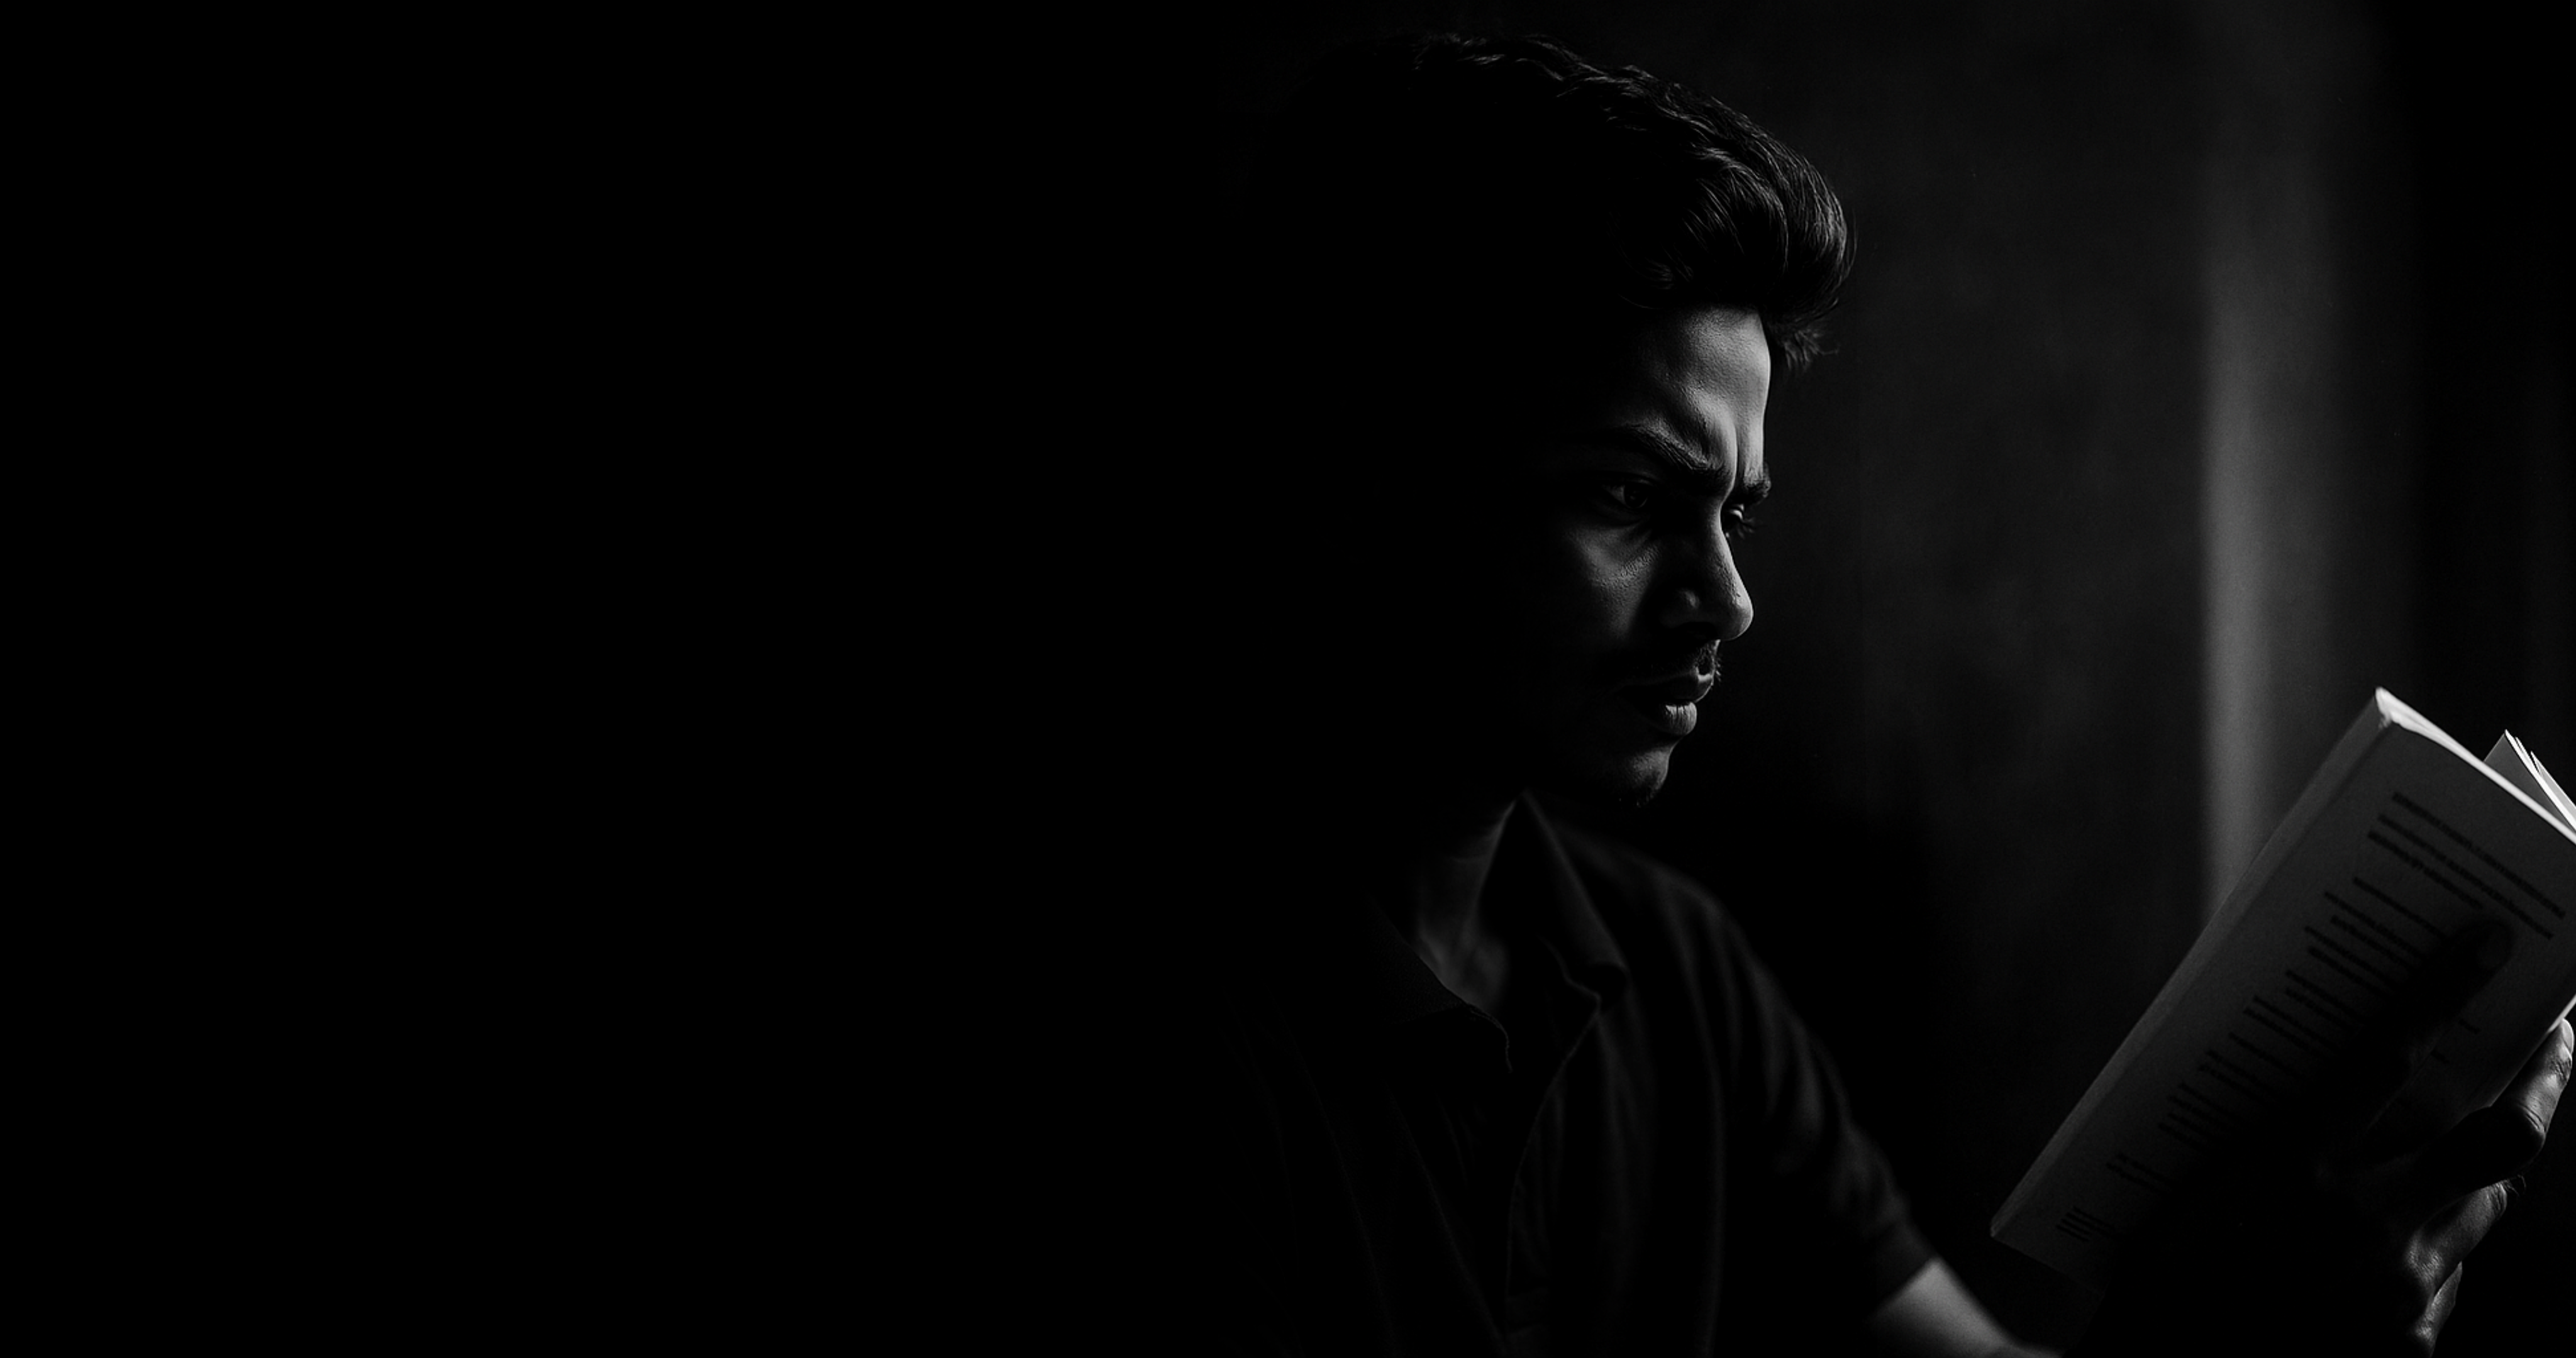
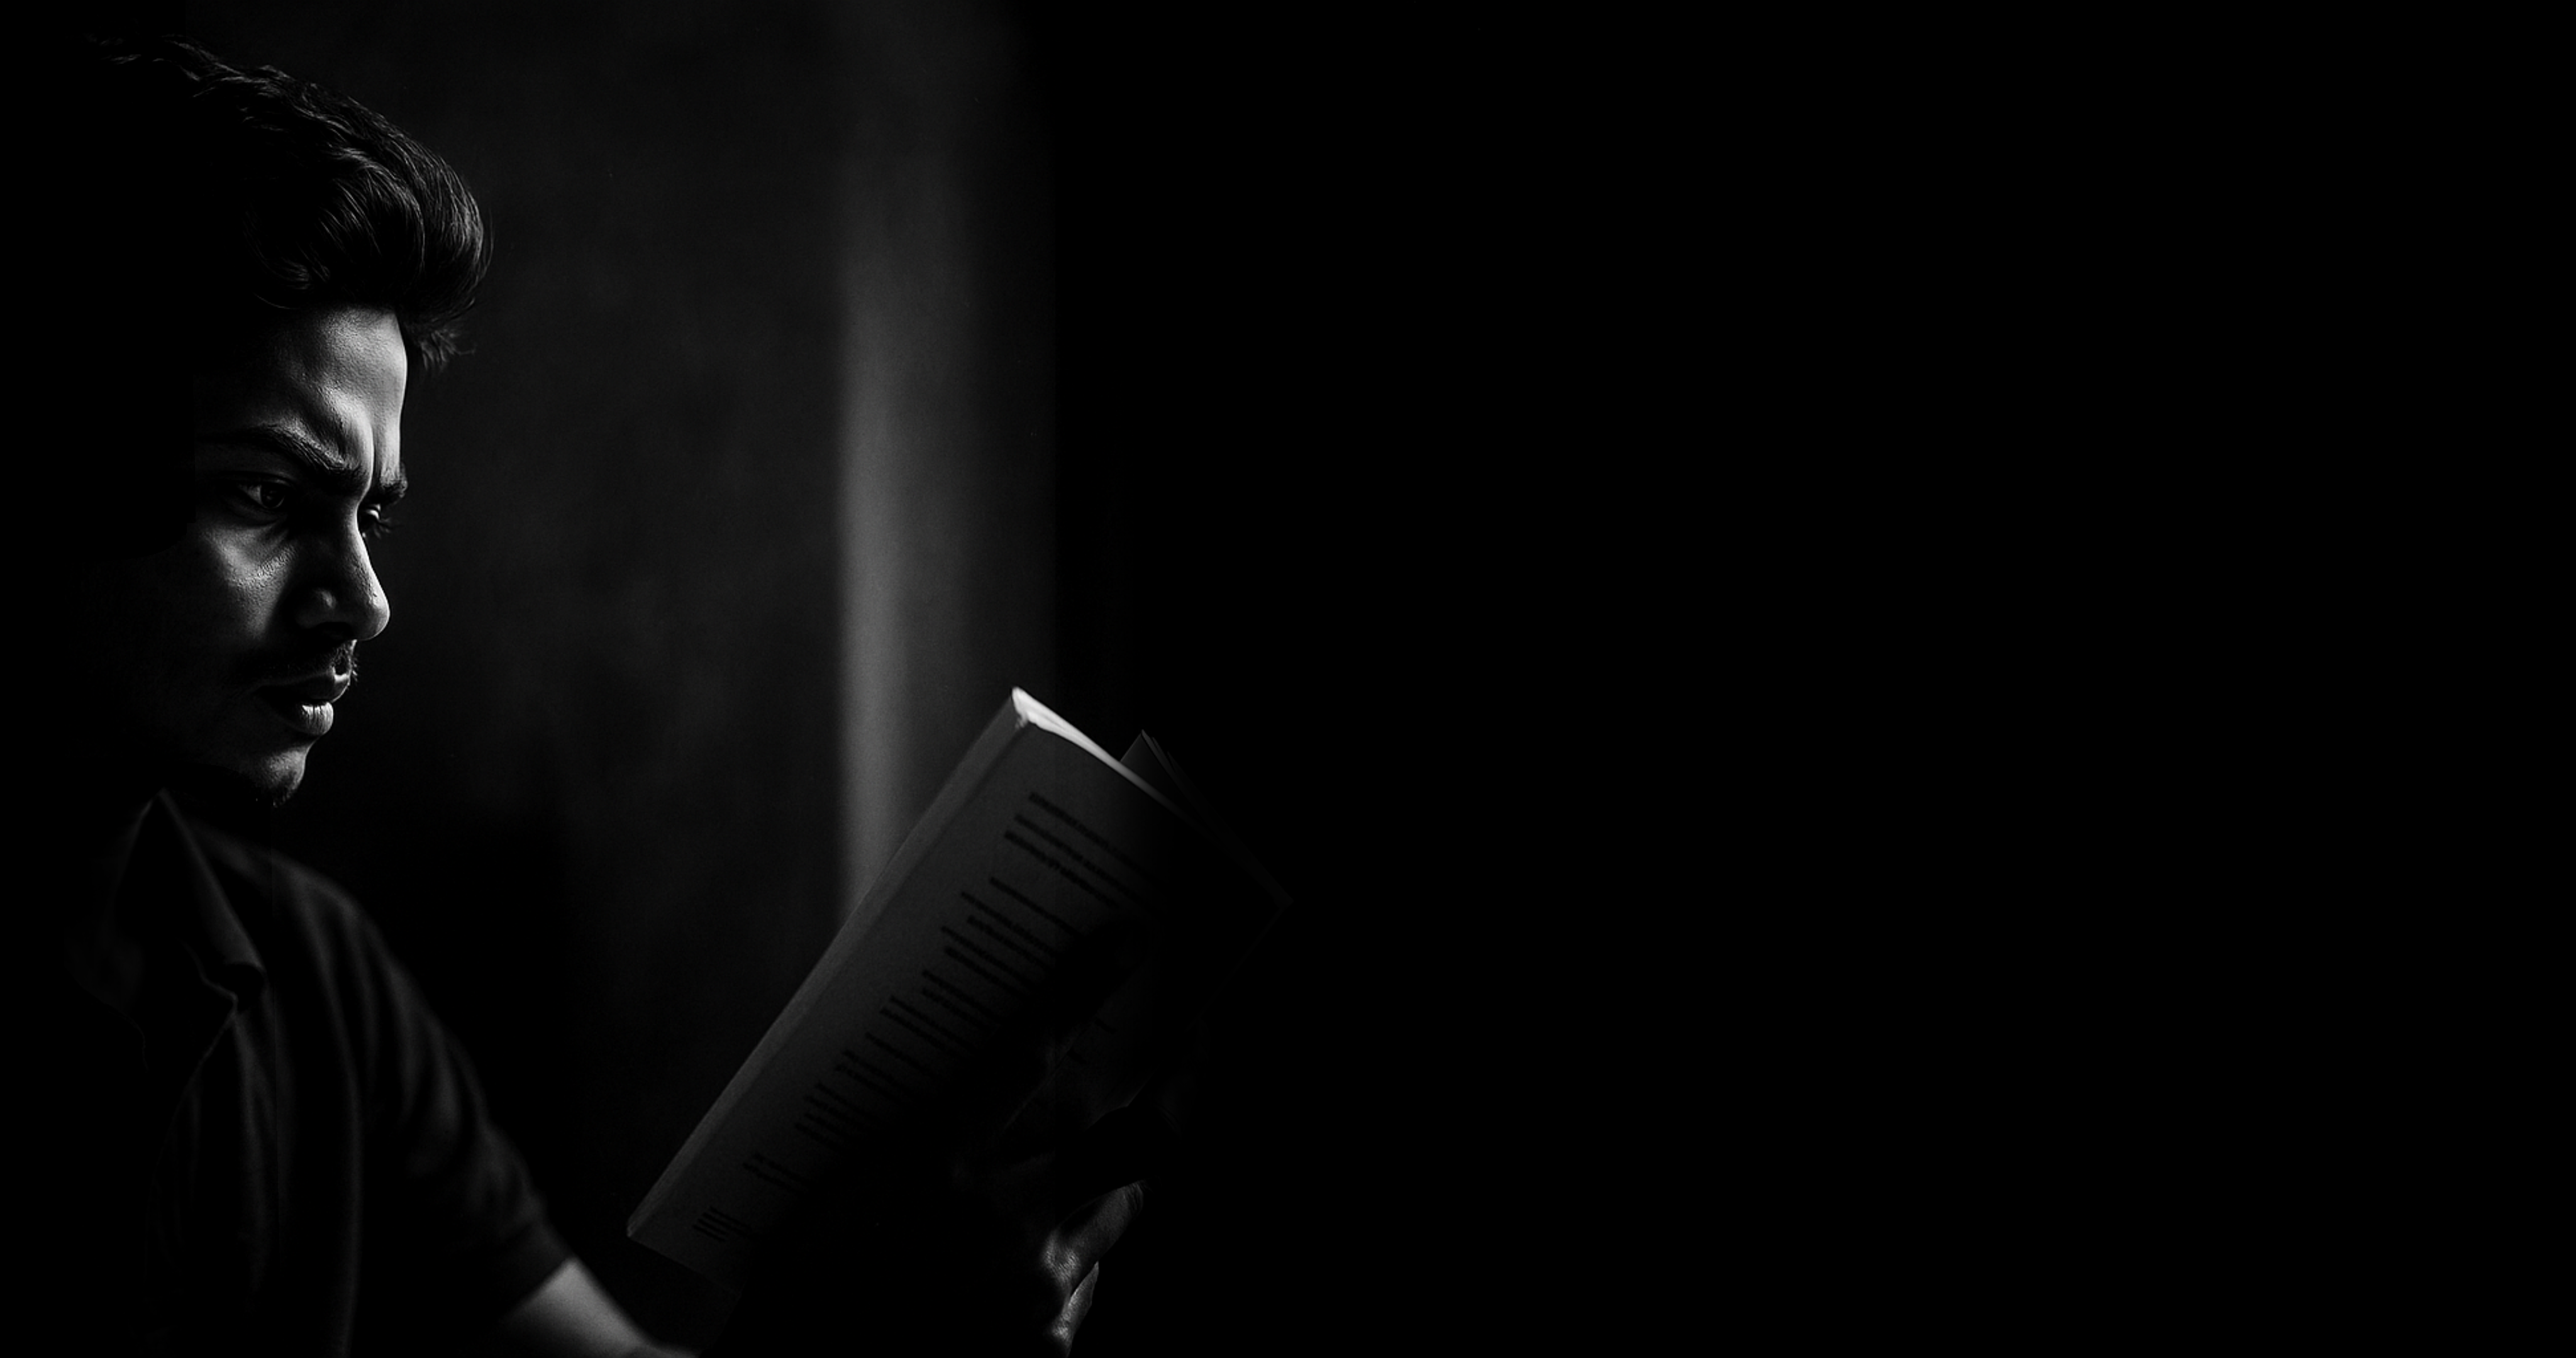
Updated the background of hero section of home page.

diff --git a/static/js/components/header.js b/static/js/components/header.js
@@ -22,13 +22,10 @@ function closeNavBar() {
     setTimeout(() => {
         nav.style.display = "none";
     }, 1000);
-
-    document.body.style.pointerEvents = 'all';
 }
 
 // & EVENT LISTENER TO OPEN NAV
 openNav.addEventListener('click', () => {
-    document.body.style.pointerEvents = 'none';
     nav.style.display = "flex";
 
     setTimeout(() => {
@@ -40,7 +37,9 @@ openNav.addEventListener('click', () => {
 });
 
 // & EVENT LISTENER TO CLOSE NAV
-closeNav.addEventListener('click', closeNavBar);
+closeNav.addEventListener('click', () => {
+    closeNavBar();
+});
 
 // & EVENT LISTENERS TO CLOSE NAV WHEN BODY IS CLICKED
 document.body.addEventListener('click', (e) => {

diff --git a/static/css/pages/home.css b/static/css/pages/home.css
@@ -9,7 +9,7 @@
 /* | HERO SECTION [START] */
 .hero {
     background-image: url('/static/assets/images/bg.png');
-    background-position: bottom right;
+    background-position: center left;
     background-size: cover;
     height: 100dvh;
 }
@@ -34,6 +34,7 @@
 }
 
 .skills .skill {min-width: 400px;}
+.skills .tech.right {text-align: right;}
 .skills .divider {border-color: var(--text-secondary);}
 
 .skills .illustration {
@@ -96,7 +97,9 @@
         align-items: start;
         width: 100%;
     }
+
     .skills .illustration {display: none;}
+    .skills .tech.right {text-align: left;}
 }
 
 @media (max-width: 568px) {

diff --git a/static/css/components/header.css b/static/css/components/header.css
@@ -51,6 +51,7 @@
 }
 
 .nav .list li.show {transform: translateX(0);}
+.nav .list .link:hover {color: var(--text-secondary);}
 
 @media (max-width: 568px) {
     .nav {padding: 20px;}

diff --git a/static/css/base/base.css b/static/css/base/base.css
@@ -9,7 +9,7 @@
     --board-2: #0653b620;
 
     --primary: #0653b6;
-    --secondary: #1C69D4;;
+    --secondary: #1C69D4;
 
     --text: #EEF0F2;
     --text-secondary: #8B8B8B;
